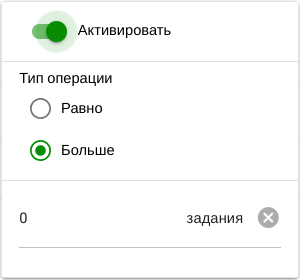
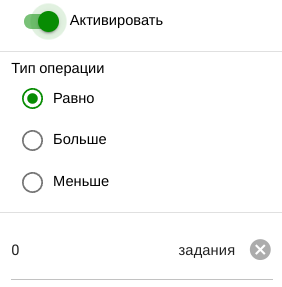
Update package filter info

Changed region(s): [[0.0, 0.0, 1.0, 1.0], [0.6241, 0.7714, 0.8227, 0.8]]

diff --git a/src/desc/nodes.md b/src/desc/nodes.md
@@ -256,22 +256,33 @@ Cтруктура:
 
   - <span class="iconify-inline" data-icon="mdi:refresh"></span> Обновление списка пакетов
 
-    Может содержать дополнительно два вида ярлыков:
+    >Может содержать дополнительно два вида ярлыков:
 
-    - Верхний ярлык зеленого цвета  <span class='iconify-inline' data-icon='ph:number-circle-one-fill' style="color: green"></span>- информирует об изменении количества пакетов в узле.
-    - Нижний ярлык оранжевого цвета <span class='iconify-inline' data-icon='ph:number-circle-one-fill' style="color: orange"></span> - информирует об изменении количества заданий некоторых пакетов в списке.
+    >- Верхний ярлык зеленого цвета  <span class='iconify-inline' data-icon='ph:number-circle-one-fill' style="color: green"></span>- информирует об изменении количества пакетов в узле.
+    >- Нижний ярлык оранжевого цвета <span class='iconify-inline' data-icon='ph:number-circle-one-fill' style="color: orange"></span> - информирует об изменении количества заданий некоторых пакетов в списке.
 
   - <span class="iconify-inline" data-icon="mdi:delete"></span> Удаление выбранных пакетов
   - <span class="iconify-inline" data-icon="mdi:delete-sweep"></span> Удаление всех пакетов
-  - <span class="iconify-inline" data-icon="mdi:dots-horizontal-circle-outline"></span> Фильтр по количеству заданий
+  - <span class="iconify-inline" data-icon="mdi:dots-horizontal-circle-outline"></span> Фильтр по количеству заданий  
 
     По нажатию открывается окно настроек фильтра:
 
     - Активировать - активация фильтра
-    - Тип операции - позволяет выбрать тип проверки количества заданий на равенство указанному значению или на превышение.
+    - Тип операции - выбор типа проверки количества заданий по отношению к указанному значению в поле "Количество заданий".
     - Количество заданий 
 
     ![Package](/images/common/node_panel_packages_filter.png)
+
+  - <span class="iconify-inline" data-icon="mdi:dots-horizontal-circle"></span> Фильтр по спецификации
+
+    По нажатию открывается окно настроек фильтра:
+
+    - Активировать - активация фильтра
+    - Поля  - выбор переменной из спецификации по которой будет производиться фильтрация
+    - Тип операции - позволяет выбрать тип проверки по отношению к указанному значению в нижнем поле ввода.
+    - Поле ввода ограничения
+
+    ![Package](/images/common/node_panel_packages_spec_filter.png)
 
   - <span class="iconify-inline" data-icon="mdi:table-column-plus-after"></span> Добавление переменной пакета
 
